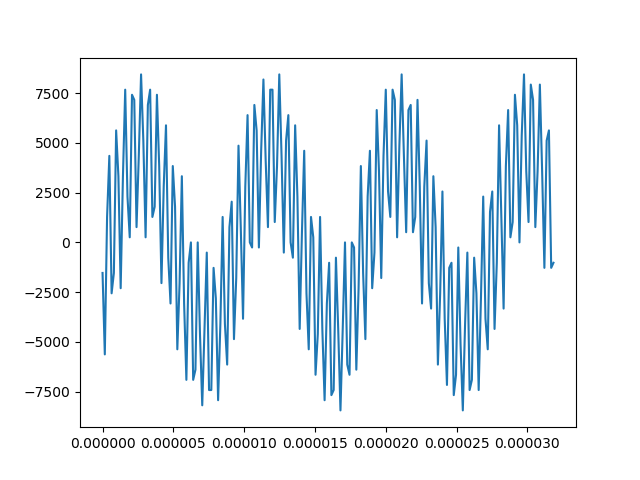
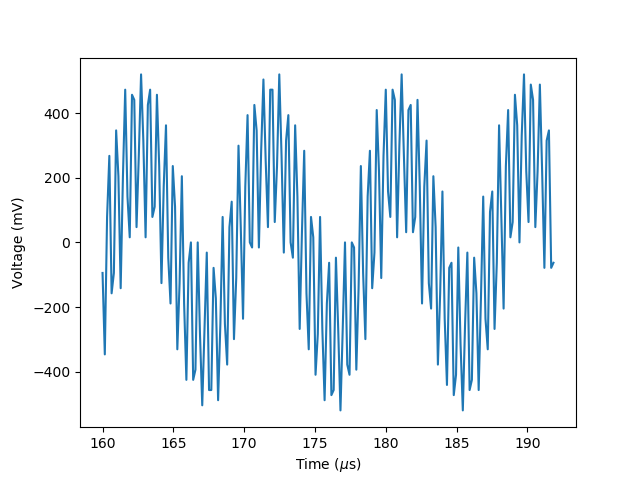
New resources for presentation

diff --git a/lab1/src/review.py b/lab1/src/review.py
@@ -13,7 +13,7 @@ def create_time(v_s):
     """
     global times
     for i in range(0, 16000):
-        times.append(i / v_s)
+        times.append(i / v_s * 10 ** 6)
 
 # this default line poises the script for lab 1 week 1 data collection
 create_time(6.25e6)
@@ -35,16 +35,20 @@ def normalize(arr, actual_max):
     norm_c = actual_max / max(arr)
     return arr * norm_c
 
-def plot(arr, norm):
+def plot(arr, norm, i=0, f=None):
     """
     Produce and display a plot
     where y-values are determined by @arr
     and where x-valies are determined by the current array associated with 'times'
+
+    @i and @f are optional parameters to specify a contiguous slice of data
     """
+    if f is None:
+        f = len(arr)
     #fig = plt.figure()
     #ax = fig.add_subplot(111)
-    plt.plot(times[:len(arr)], normalize(arr, norm))
-    plt.xlabel('Time (s)')
+    plt.plot(times[i:f], normalize(arr[i:f], norm))
+    plt.xlabel(r'Time ($\mu$s)')
     plt.ylabel('Voltage (mV)')
     plt.show()
 

diff --git a/lab1/src/analysis.py b/lab1/src/analysis.py
@@ -7,7 +7,7 @@ import ugradio
 import numpy as np
 import matplotlib.pyplot as plt
 
-def power_plot(sample, ifreq, norm, srate=6.25e6):
+def power_plot(sample, norm, srate=6.25e6, ifreq=None):
     """
     Clean, labeled plot of power spectrum of @sample
     corresponding to a signal at @ifreq (in MHz)
@@ -22,10 +22,11 @@ def power_plot(sample, ifreq, norm, srate=6.25e6):
     ax = fig.add_subplot(111)
     f = ugradio.dft.dft(sample, vsamp=srate)
     P = np.abs(f[1]) ** 2
-    ax.plot(f[0], normalize(P, norm ** 2))
-    plt.xlabel('Frequency (Hz)')
+    ax.plot(f[0] / 10 ** 6, normalize(P, norm ** 2))
+    plt.xlabel('Frequency (MHz)')
     plt.ylabel(r'Power (nV$^2$)')
-    plt.title('Power Spectrum: ' + str(ifreq) + ' MHz sinusoid')
+    if ifreq is not None:
+        plt.title('Power Spectrum: ' + str(ifreq) + ' MHz sinusoid')
 
     plt.show()
 	

diff --git a/lab1/synthesis.py b/lab1/synthesis.py
@@ -1,3 +1,6 @@
+# there is bad hard-coding with regards to micro seconds and
+    # mega hertz. Can we do axis autoscaling?
+
 # TODO:
 	# upload pictures from phone so that
 	# lab partners can perform visual
